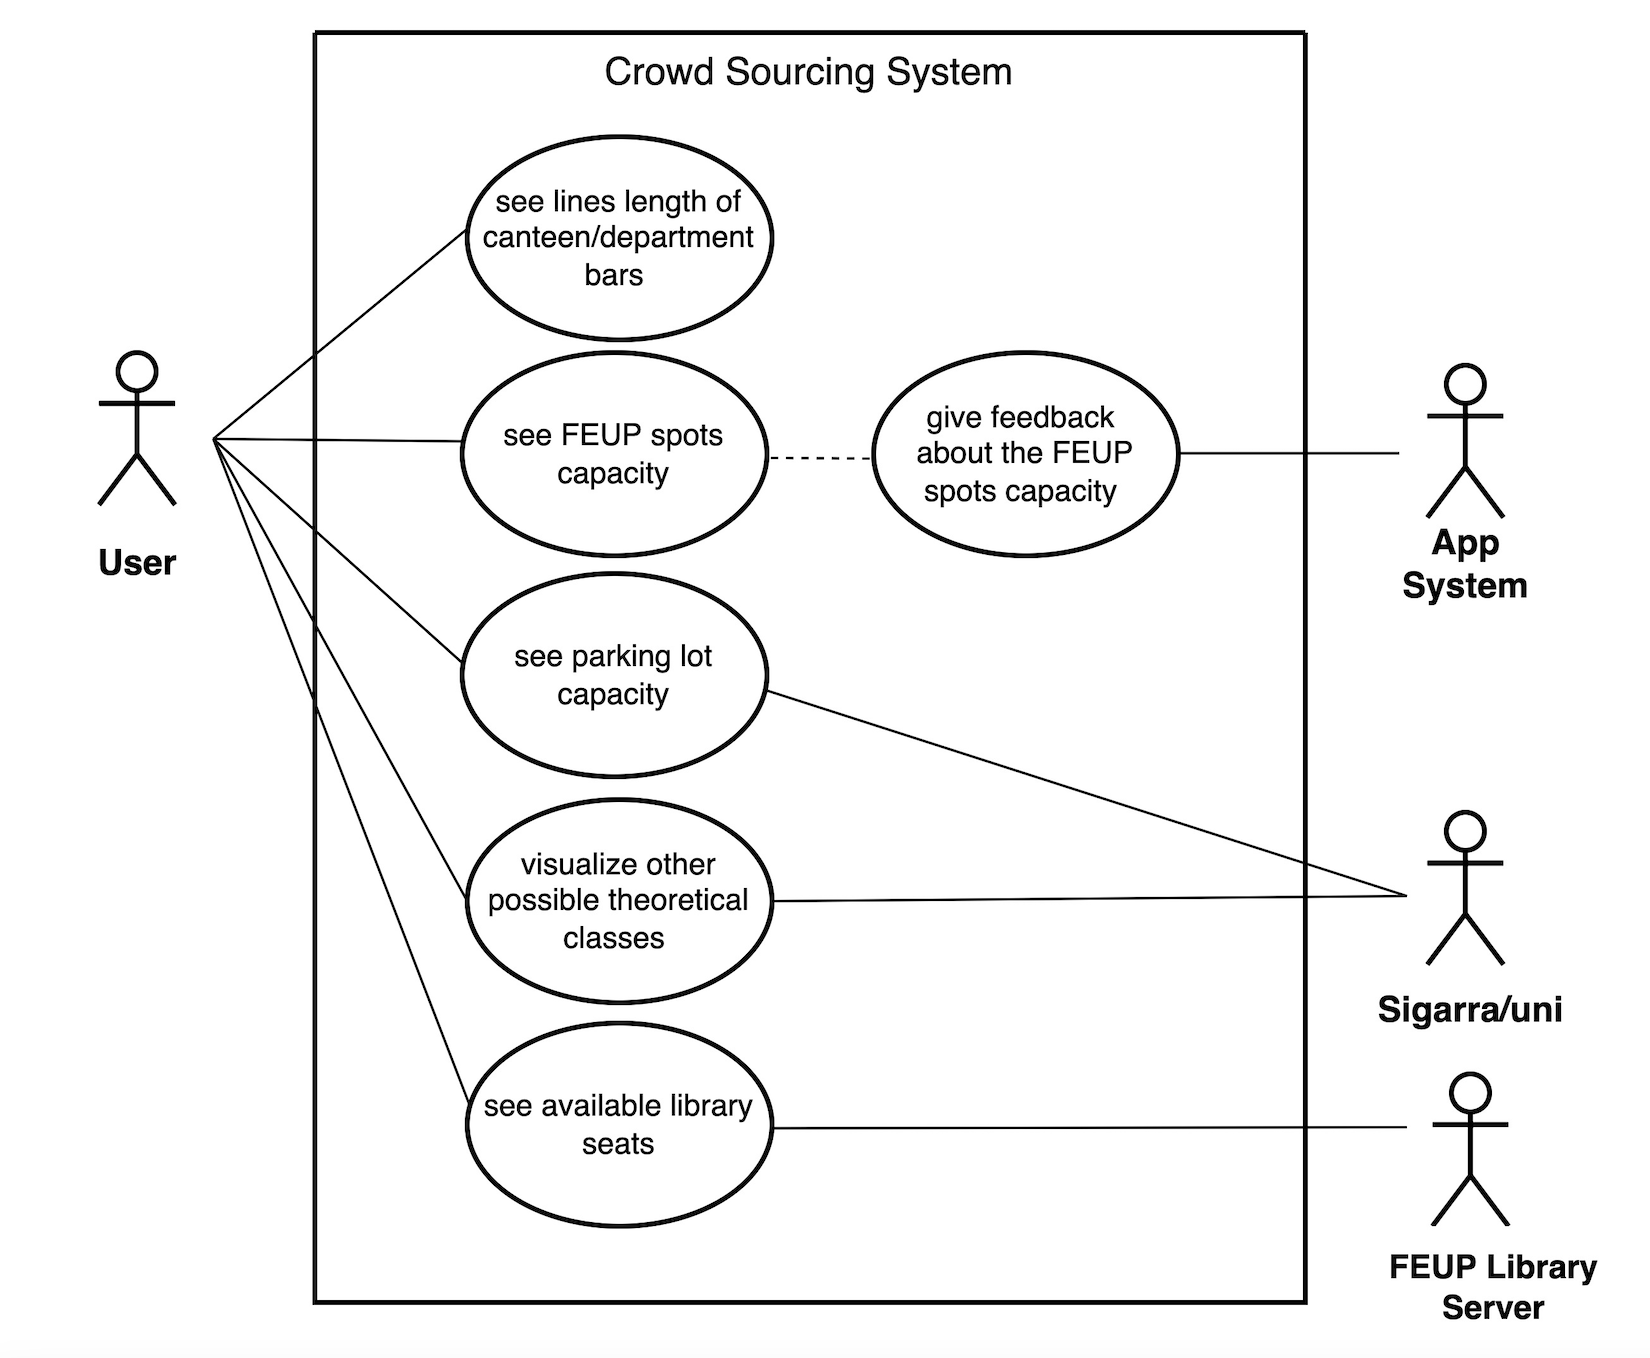
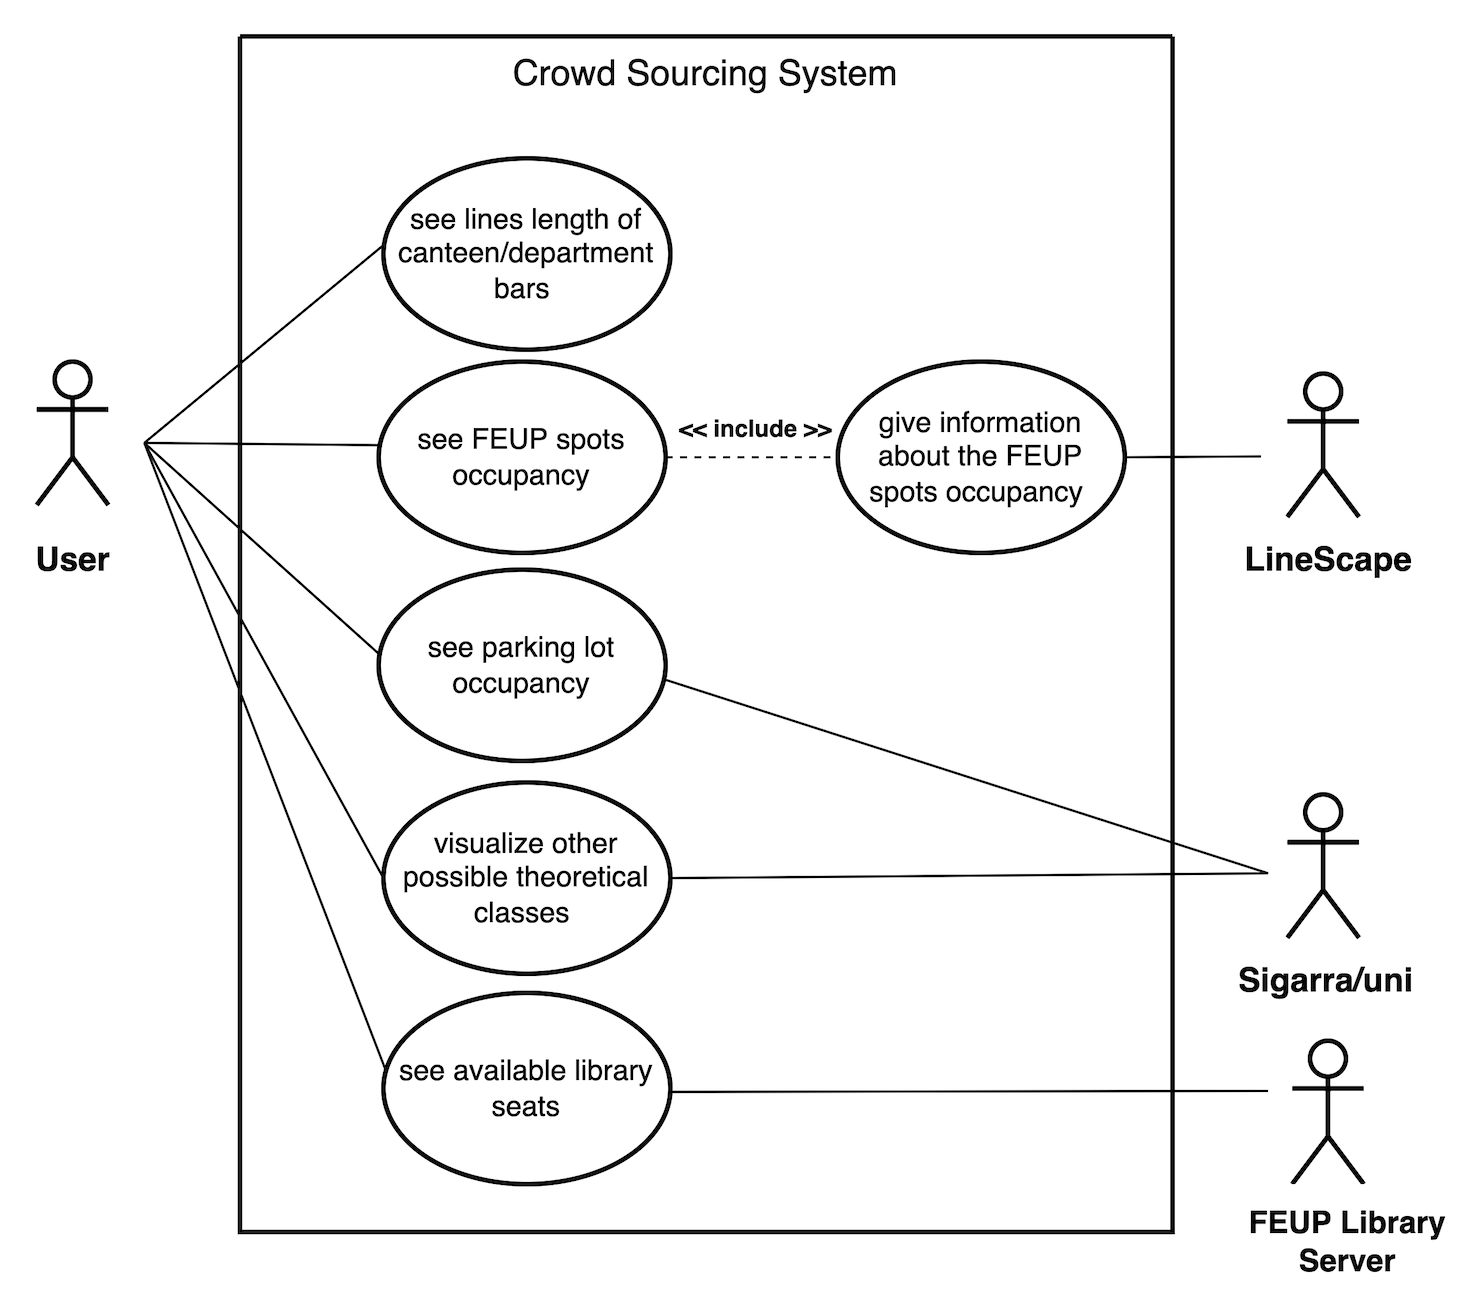
Minor changes in Use Case Diagram

diff --git a/README.md b/README.md
@@ -14,8 +14,8 @@ Maria Luísa Fontanete Loureiro Salvador - up202006471<br>
 
 ## Vision Statement
 For FEUP students who don't want to wait in lines, LineScape is an app that uses crowd sourcing to tell you how big lines at FEUP are, as well as the capacity of certain spots like the library, department bars, parking lot, etc. Right now, there is no alternative to the service provided by our project besides the students just trying their luck and risking having to wait more time in lines or not have seats in classes or in the library.
-- [Requirements](https://github.com/LEIC-ES-2021-22/templates/blob/main/docs/requirements.md)
-- [Product Vision](https://github.com/LEIC-ES-2021-22/3LEIC02T5/blob/main/ProductVision.md)
+- [Requirements](requirements.md)
+- [Product Vision](ProductVision.md)
 
 ## Main Features
 - **Canteen lines, Student Association and Department Bars:** Creating statistics using a like/dislike button according to the capacity and occupation of the spot.

diff --git a/requirements.md b/requirements.md
@@ -1,7 +1,7 @@
 # Requirements
 
 ## Use case diagram
-![2 drawio](https://user-images.githubusercontent.com/89557480/160859115-fdb04029-7f9b-4d3c-98b8-e939f272b55a.png)
+![CrowdSourcingSystem](CrowdSourcingSystem.png)
 
 
 
